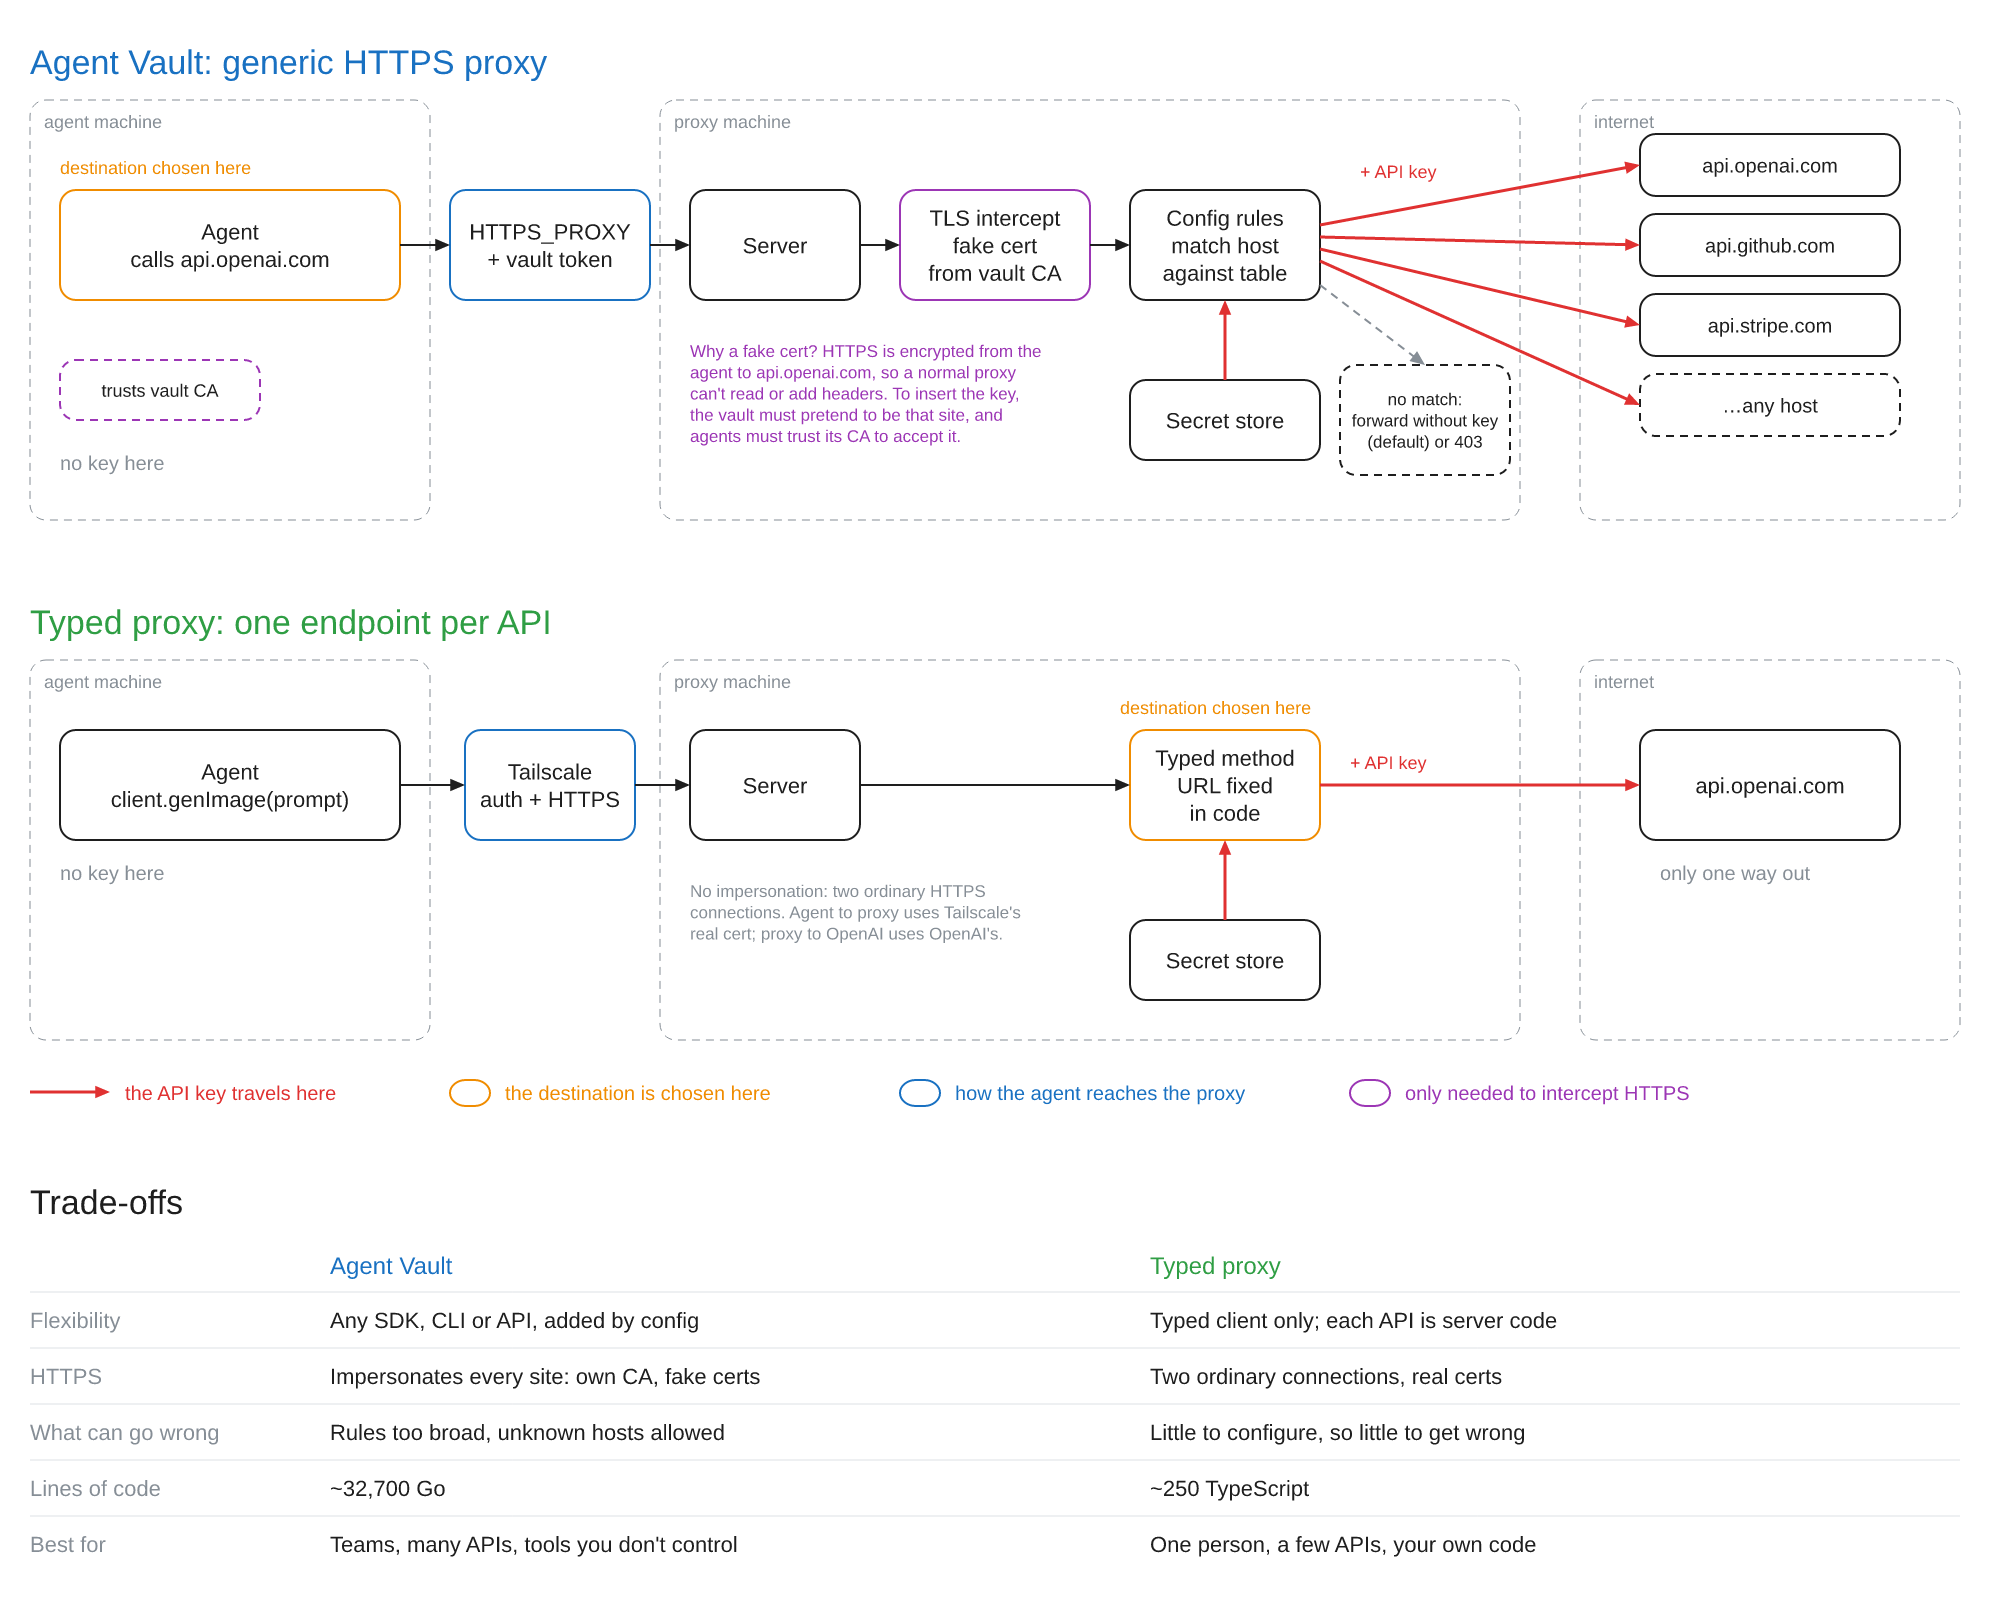
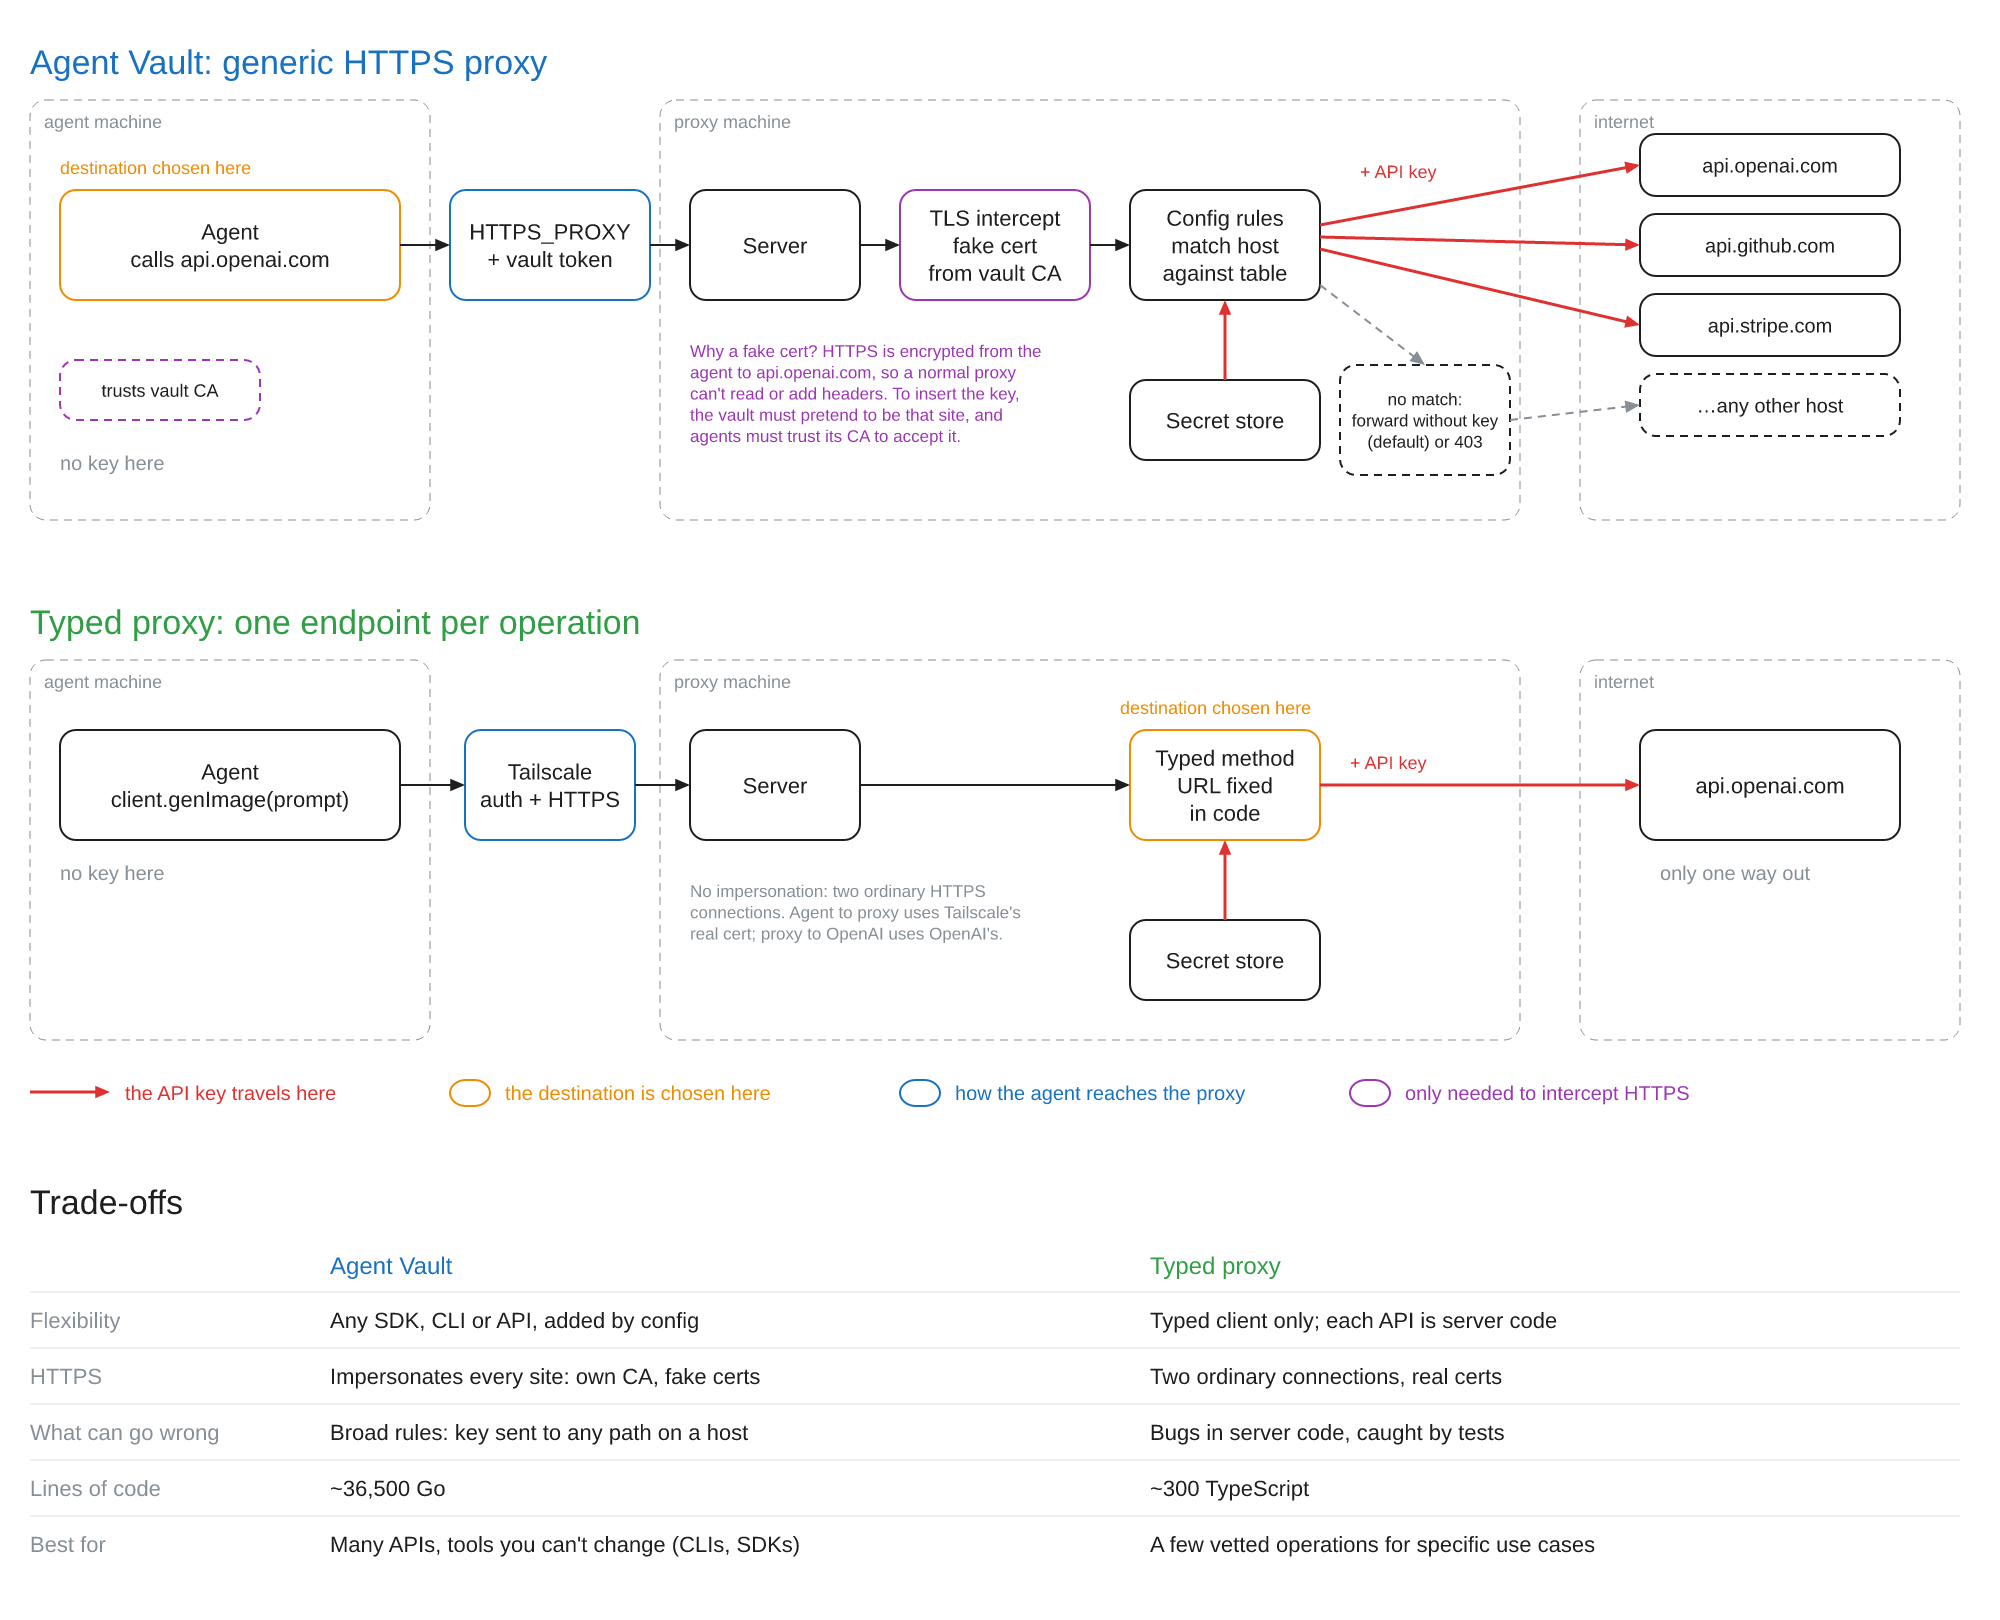
Diagram: key only reaches hosts with a rule, vetted operations framing, corrected line counts

diff --git a/scripts/diagram.ts b/scripts/diagram.ts
@@ -98,7 +98,7 @@ const zones = (y: number, height: number) => {
 }
 
 const typedProxy = (top: number) => {
-  text("Typed proxy: one endpoint per API", 30, top, 34, GREEN)
+  text("Typed proxy: one endpoint per operation", 30, top, 34, GREEN)
   zones(top + 60, 380)
   const y = top + 130
   const agent = box("Agent\nclient.genImage(prompt)", 60, y, 340, BOX_HEIGHT)
@@ -149,13 +149,18 @@ const agentVault = (top: number) => {
   upInto(secrets, rules, KEY)
   arrow(rules.x + rules.width, rules.y + rules.height - 15, noMatch.x + noMatch.width / 2, noMatch.y, { color: GRAY, dashed: true })
 
-  // Any host the agent names can receive a key, so the last hop fans out.
-  const hosts = ["api.openai.com", "api.github.com", "api.stripe.com", "…any host"]
+  // Every host with a rule can receive a key; any other host is forwarded without one.
+  const hosts = ["api.openai.com", "api.github.com", "api.stripe.com", "…any other host"]
   const hostHeight = 62
   const hostStep = 80
   const hostsTop = y + BOX_HEIGHT / 2 - (hosts.length * hostStep - (hostStep - hostHeight)) / 2 + 40
   hosts.forEach((host, index) => {
-    const target = box(host, NET_ZONE.x + 60, hostsTop + index * hostStep, 260, hostHeight, { size: 20, dashed: index === hosts.length - 1 })
+    const unmatched = index === hosts.length - 1
+    const target = box(host, NET_ZONE.x + 60, hostsTop + index * hostStep, 260, hostHeight, { size: 20, dashed: unmatched })
+    if (unmatched) {
+      arrow(...rightOf(noMatch), ...leftOf(target), { color: GRAY, dashed: true })
+      return
+    }
     arrow(...rightOf(rules, index * 12 - 20), ...leftOf(target), KEY)
   })
   text("+ API key", rules.x + rules.width + 40, y - 30, 18, RED)
@@ -175,9 +180,9 @@ const legend = (y: number) => {
 const TRADE_OFFS: ReadonlyArray<readonly [string, string, string]> = [
   ["Flexibility", "Any SDK, CLI or API, added by config", "Typed client only; each API is server code"],
   ["HTTPS", "Impersonates every site: own CA, fake certs", "Two ordinary connections, real certs"],
-  ["What can go wrong", "Rules too broad, unknown hosts allowed", "Little to configure, so little to get wrong"],
-  ["Lines of code", "~32,700 Go", "~250 TypeScript"],
-  ["Best for", "Teams, many APIs, tools you don't control", "One person, a few APIs, your own code"],
+  ["What can go wrong", "Broad rules: key sent to any path on a host", "Bugs in server code, caught by tests"],
+  ["Lines of code", "~36,500 Go", "~300 TypeScript"],
+  ["Best for", "Many APIs, tools you can't change (CLIs, SDKs)", "A few vetted operations for specific use cases"],
 ]
 
 const tradeOffs = (top: number) => {
